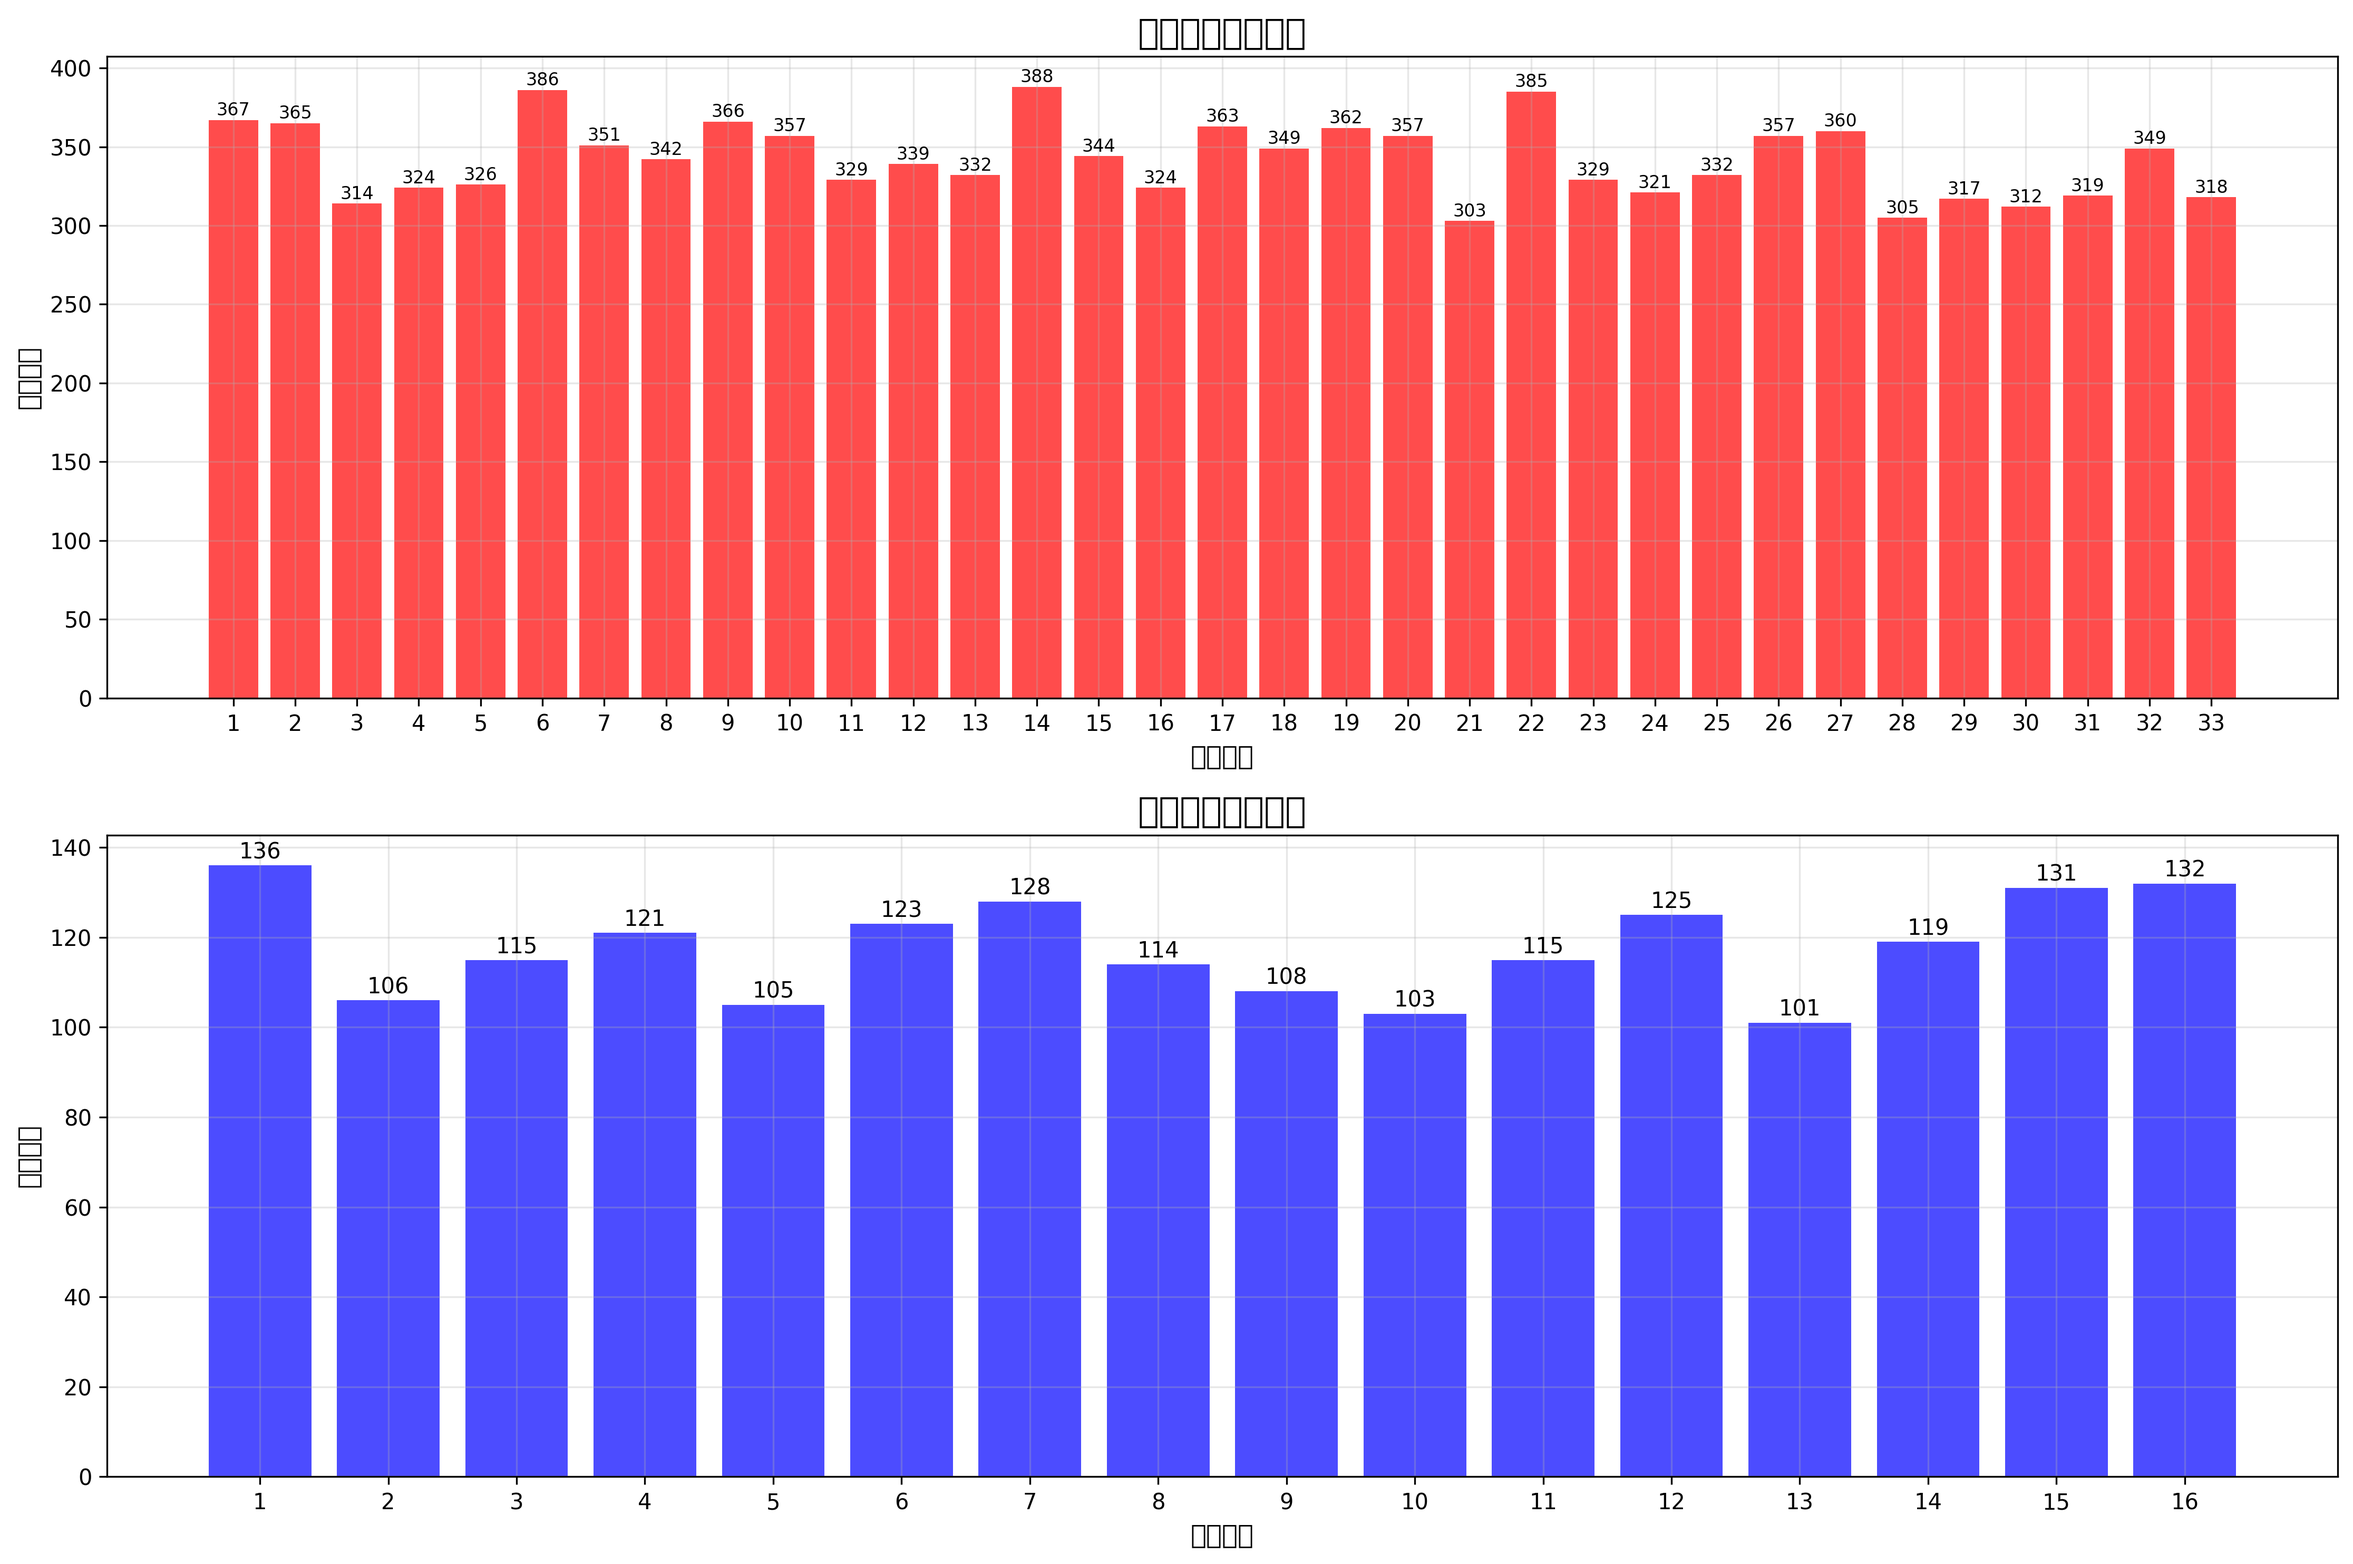
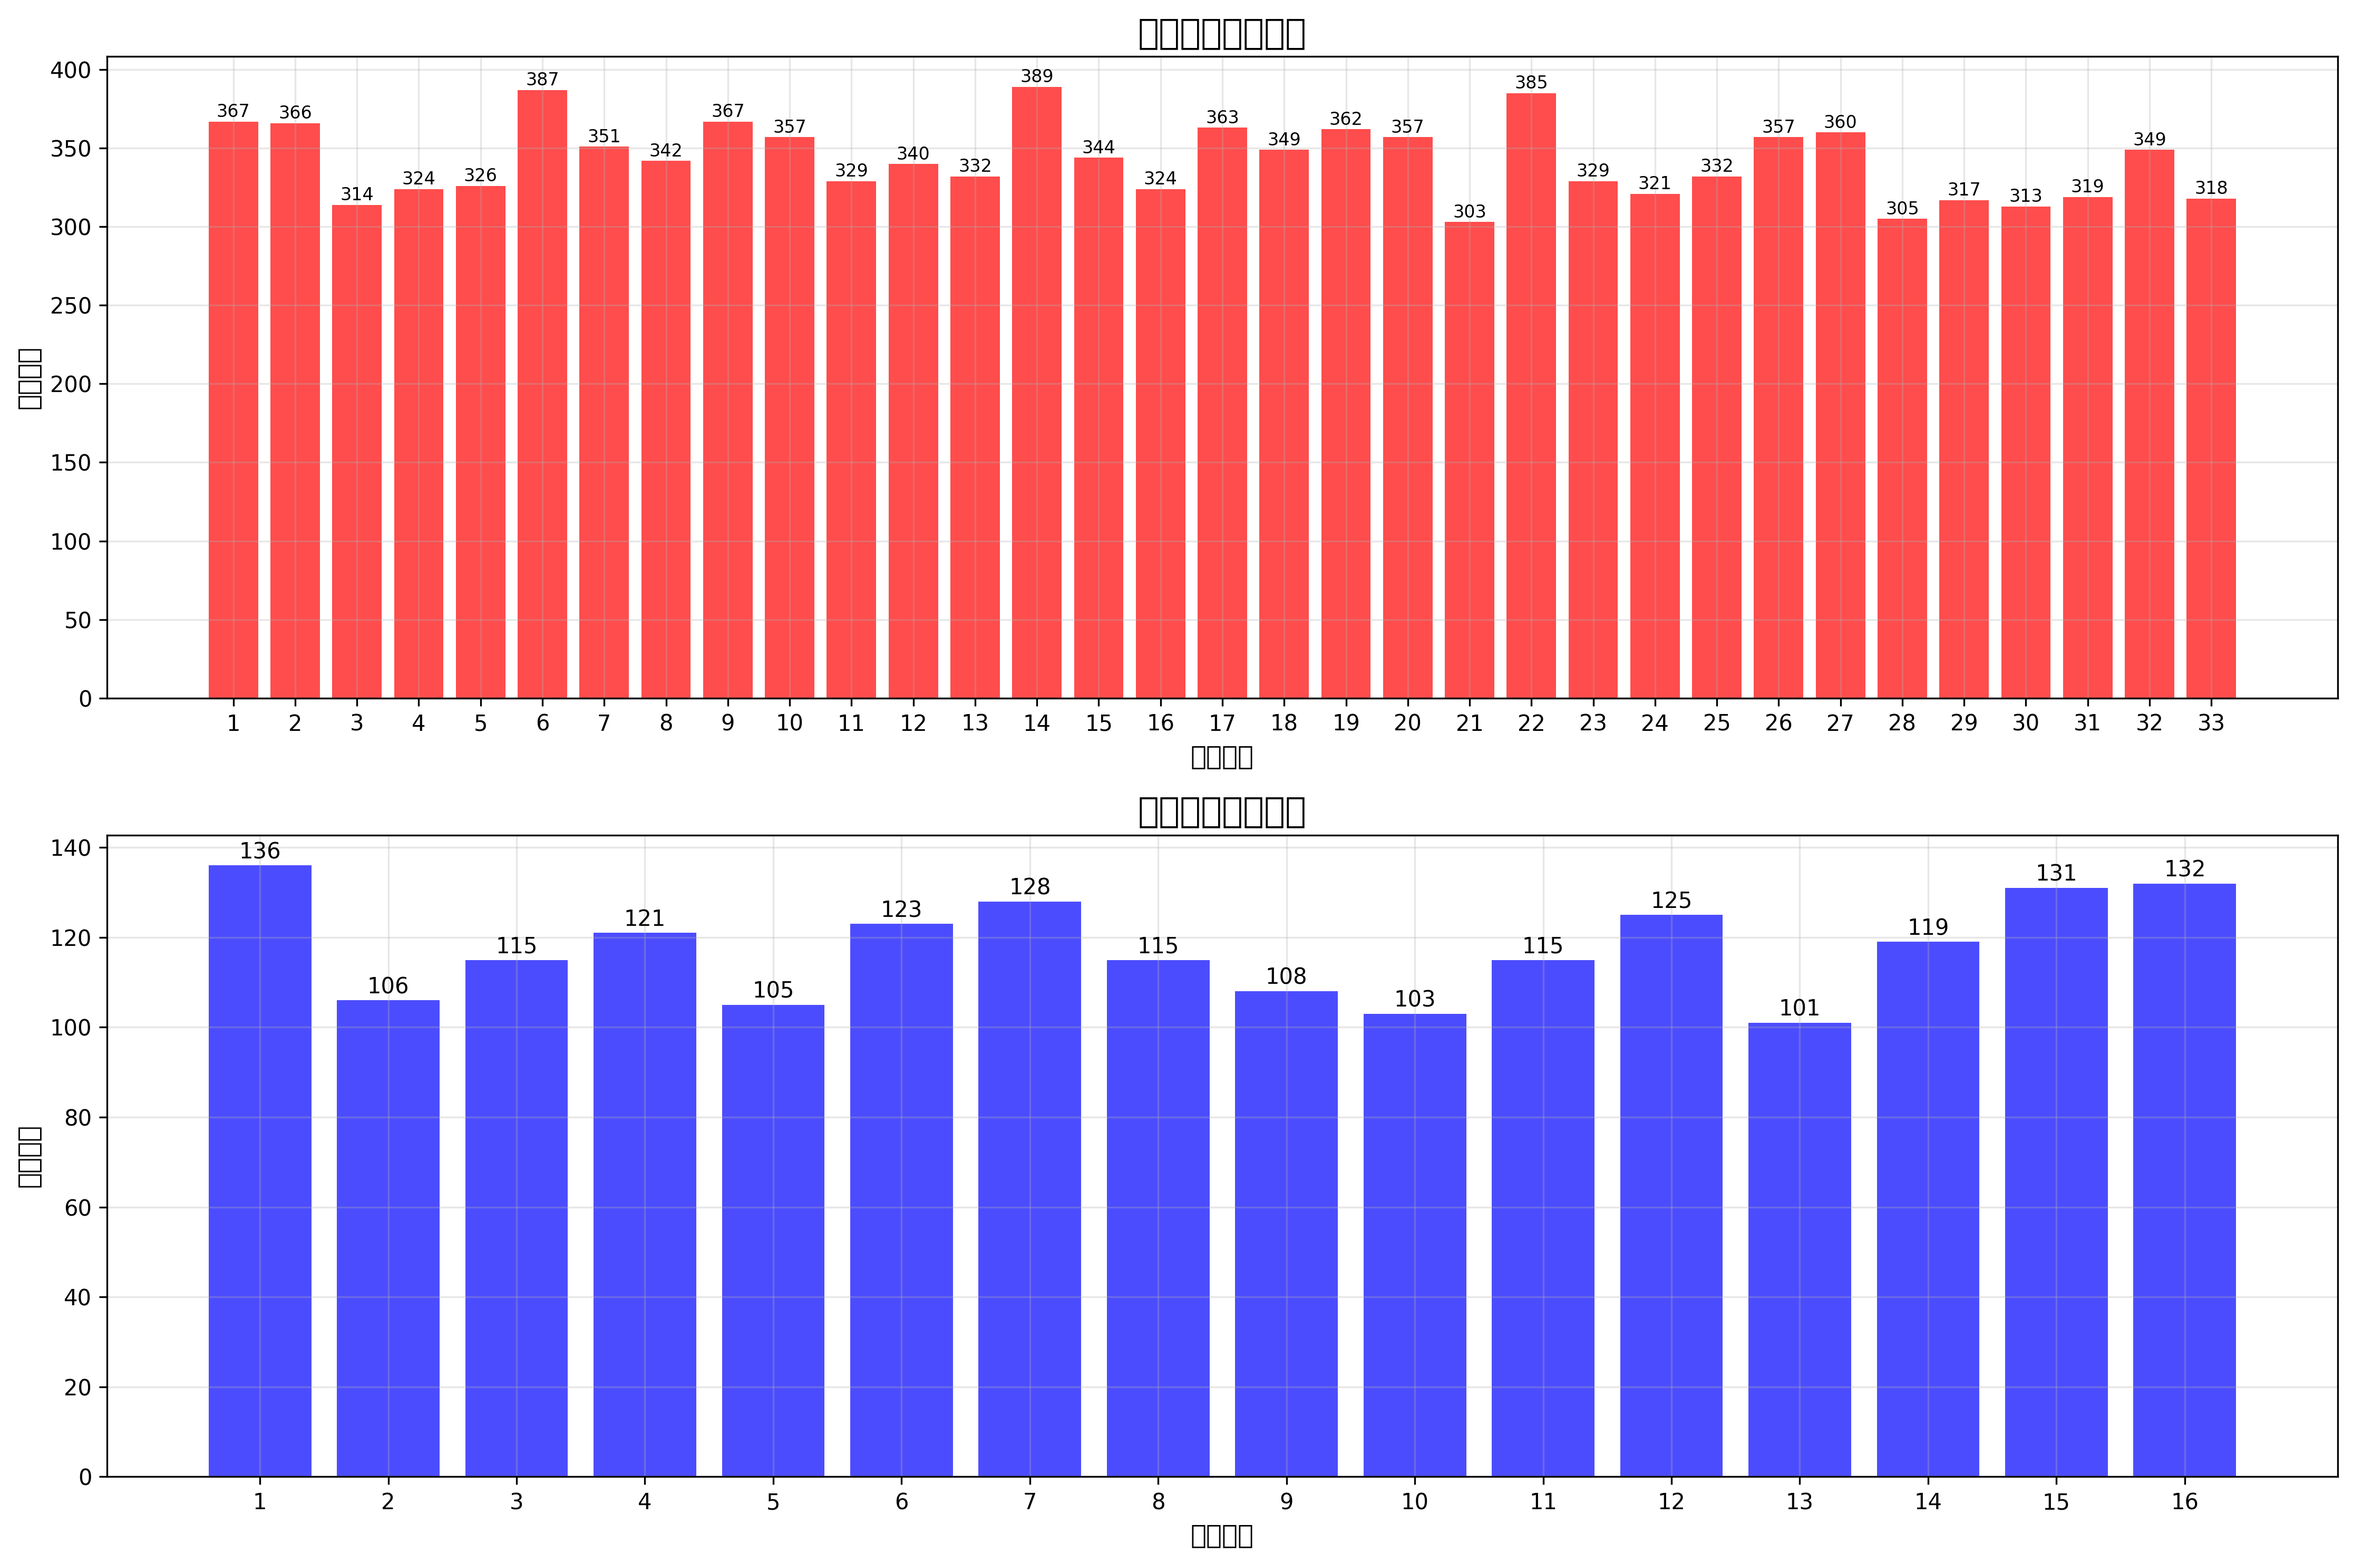
🎯 更新彩票数据和分析报告 - 2025-07-06 21:53:25 (UTC+8)

Changed region(s): [[0.4671, 0.5889, 0.4982, 0.6199]]

diff --git a/reports/analysis_report.md b/reports/analysis_report.md
@@ -1,9 +1,9 @@
 # 🎯 双色球数据分析报告
 
 ## 📊 报告信息
-- **生成时间**: 2025年07月05日 21:53:26 (UTC+8)
-- **数据期数**: 共 1882 期
-- **最新期号**: 2025075
+- **生成时间**: 2025年07月06日 21:53:25 (UTC+8)
+- **数据期数**: 共 1883 期
+- **最新期号**: 2025076
 - **数据来源**: 中国福利彩票官方API
 
 ## ⚠ 重要免责声明
@@ -15,6 +15,8 @@
 
 ### 最近5期开奖号码
 
+**2025076期** (2025-07-06): 02 06 09 12 14 30 + **08**
+
 **2025075期** (2025-07-03): 10 12 14 19 20 21 + **15**
 
 **2025074期** (2025-07-01): 03 04 12 20 32 33 + **13**
@@ -22,8 +24,6 @@
 **2025073期** (2025-06-29): 02 07 10 27 30 33 + **11**
 
 **2025072期** (2025-06-26): 02 14 17 25 27 29 + **05**
-
-**2025071期** (2025-06-24): 01 12 18 23 25 28 + **07**
 
 ---
 
@@ -33,19 +33,19 @@
 
 | 排名 | 号码 | 出现次数 | 出现频率 |
 |------|------|----------|----------|
-| 01 | **14** | 388 | 20.6% |
-| 02 | **06** | 386 | 20.5% |
-| 03 | **22** | 385 | 20.5% |
-| 04 | **01** | 367 | 19.5% |
-| 05 | **09** | 366 | 19.4% |
-| 06 | **02** | 365 | 19.4% |
+| 01 | **14** | 389 | 20.7% |
+| 02 | **06** | 387 | 20.6% |
+| 03 | **22** | 385 | 20.4% |
+| 04 | **09** | 367 | 19.5% |
+| 05 | **01** | 367 | 19.5% |
+| 06 | **02** | 366 | 19.4% |
 | 07 | **17** | 363 | 19.3% |
 | 08 | **19** | 362 | 19.2% |
 | 09 | **27** | 360 | 19.1% |
 | 10 | **10** | 357 | 19.0% |
 | 11 | **20** | 357 | 19.0% |
 | 12 | **26** | 357 | 19.0% |
-| 13 | **07** | 351 | 18.7% |
+| 13 | **07** | 351 | 18.6% |
 | 14 | **32** | 349 | 18.5% |
 | 15 | **18** | 349 | 18.5% |
 
@@ -61,8 +61,8 @@
 | 06 | **06** | 123 | 6.5% |
 | 07 | **04** | 121 | 6.4% |
 | 08 | **14** | 119 | 6.3% |
-| 09 | **11** | 115 | 6.1% |
-| 10 | **03** | 115 | 6.1% |
+| 09 | **08** | 115 | 6.1% |
+| 10 | **11** | 115 | 6.1% |
 
 ---
 
@@ -76,7 +76,7 @@
 | 4奇2偶 | 470 | 25.0% |
 | 2奇4偶 | 450 | 23.9% |
 | 5奇1偶 | 143 | 7.6% |
-| 1奇5偶 | 113 | 6.0% |
+| 1奇5偶 | 114 | 6.1% |
 | 6奇0偶 | 21 | 1.1% |
 | 0奇6偶 | 19 | 1.0% |
 
@@ -90,7 +90,7 @@
 | 40-49 | 10 | 0.5% |
 | 50-59 | 37 | 2.0% |
 | 60-69 | 82 | 4.4% |
-| 70-79 | 163 | 8.7% |
+| 70-79 | 164 | 8.7% |
 | 80-89 | 263 | 14.0% |
 | 90-99 | 329 | 17.5% |
 | 100-109 | 347 | 18.4% |
@@ -111,7 +111,7 @@
 | 10-14 | 71 | 3.8% |
 | 15-19 | 265 | 14.1% |
 | 20-24 | 565 | 30.0% |
-| 25-29 | 711 | 37.8% |
+| 25-29 | 712 | 37.8% |
 | 30-34 | 266 | 14.1% |
 
 
@@ -123,6 +123,7 @@
 
 | 期号 | 开奖日期 | 红球号码 | 蓝球 |
 |------|----------|----------|------|
+| 2025076 | 2025-07-06 | 02 06 09 12 14 30 | **08** |
 | 2025075 | 2025-07-03 | 10 12 14 19 20 21 | **15** |
 | 2025074 | 2025-07-01 | 03 04 12 20 32 33 | **13** |
 | 2025073 | 2025-06-29 | 02 07 10 27 30 33 | **11** |
@@ -132,12 +133,11 @@
 | 2025069 | 2025-06-19 | 02 04 19 23 27 30 | **05** |
 | 2025068 | 2025-06-17 | 05 07 08 19 20 31 | **07** |
 | 2025067 | 2025-06-15 | 01 05 10 17 20 22 | **05** |
-| 2025066 | 2025-06-12 | 06 22 24 27 28 30 | **04** |
 
 
 ### 热号分析
 
-**最近10期红球热号（出现2次及以上）**: 01 02 03 04 05 07 10 12 14 17 19 20 21 22 23 25 27 28 30 33
+**最近10期红球热号（出现2次及以上）**: 01 02 03 04 05 07 10 12 14 17 19 20 21 22 23 25 27 30 33
 
 **最近10期蓝球热号（出现2次及以上）**: 05 07
 
@@ -147,36 +147,36 @@
 
 **⚠ 以下推荐号码仅基于历史统计分析，不保证中奖，请理性参考！**
 
-**推荐组合 1** (高频主导): 14 17 18 19 27 32 + **01**
-- 特征: 3奇3偶 | 和值:127 | 跨度:18
+**推荐组合 1** (高频主导): 09 12 13 17 20 22 + **01**
+- 特征: 3奇3偶 | 和值:93 | 跨度:13
 - 说明: 基于最高频号码的稳定组合
 
-**推荐组合 2** (均衡分布): 05 07 15 17 19 27 + **16**
-- 特征: 6奇0偶 | 和值:90 | 跨度:22
+**推荐组合 2** (均衡分布): 01 06 09 11 24 25 + **16**
+- 特征: 4奇2偶 | 和值:76 | 跨度:24
 - 说明: 高中低频均衡的平衡组合
 
-**推荐组合 3** (中频优先): 03 11 17 18 20 23 + **15**
-- 特征: 4奇2偶 | 和值:92 | 跨度:20
+**推荐组合 3** (中频优先): 01 02 15 23 25 33 + **15**
+- 特征: 5奇1偶 | 和值:99 | 跨度:32
 - 说明: 中频主导的稳健组合
 
-**推荐组合 4** (冷热结合): 06 17 20 30 31 32 + **07**
-- 特征: 2奇4偶 | 和值:136 | 跨度:26
+**推荐组合 4** (冷热结合): 02 04 09 13 17 29 + **07**
+- 特征: 4奇2偶 | 和值:74 | 跨度:27
 - 说明: 热号与冷号结合的对冲组合
 
-**推荐组合 5** (超高频): 01 06 10 19 20 32 + **01**
-- 特征: 2奇4偶 | 和值:88 | 跨度:31
+**推荐组合 5** (超高频): 01 02 17 22 27 32 + **01**
+- 特征: 3奇3偶 | 和值:101 | 跨度:31
 - 说明: 超高频号码的激进组合
 
-**推荐组合 6** (低频反选): 07 13 20 24 29 33 + **12**
-- 特征: 4奇2偶 | 和值:126 | 跨度:26
+**推荐组合 6** (低频反选): 03 09 15 18 21 30 + **12**
+- 特征: 4奇2偶 | 和值:96 | 跨度:27
 - 说明: 低频号码的反向思维组合
 
-**推荐组合 7** (随机均衡): 09 11 19 21 32 33 + **15**
-- 特征: 5奇1偶 | 和值:125 | 跨度:24
+**推荐组合 7** (随机均衡): 07 16 17 27 29 32 + **15**
+- 特征: 4奇2偶 | 和值:128 | 跨度:25
 - 说明: 各频段随机均衡组合
 
-**推荐组合 8** (奇偶优化): 01 08 09 17 18 30 + **16**
-- 特征: 3奇3偶 | 和值:83 | 跨度:29
+**推荐组合 8** (奇偶优化): 09 12 16 17 27 32 + **16**
+- 特征: 3奇3偶 | 和值:113 | 跨度:23
 - 说明: 考虑奇偶平衡的优化组合
 
 ---
@@ -222,6 +222,6 @@
 
 ---
 
-*报告生成时间: 2025年07月05日 21:53:26 (UTC+8)*  
+*报告生成时间: 2025年07月06日 21:53:25 (UTC+8)*  
 *数据来源: 中国福利彩票官方网站*  
 *仅供学习研究使用，请理性购彩*

diff --git a/README.md b/README.md
@@ -35,9 +35,9 @@
 
 | 期号 | 开奖日期 | 红球号码 | 蓝球 |
 |------|----------|----------|------|
-| 2025075 | 2025-07-03 | `10 12 14 19 20 21` | `15` |
+| 2025076 | 2025-07-06 | `02 06 09 12 14 30` | `08` |
 
-**📈 数据统计**: 已收录 1882 期开奖数据 | 最后更新: 2025年07月05日 21:53:06
+**📈 数据统计**: 已收录 1883 期开奖数据 | 最后更新: 2025年07月06日 21:53:09
 
 ---
 ### 🎯 智能推荐号码
@@ -46,14 +46,14 @@
 
 | 序号 | 推荐类型 | 红球号码 | 蓝球 | 特征分析 |
 |------|----------|----------|------|----------|
-| 1 | 高频主导 | `14 17 18 19 27 32` | `01` | 基于最高频号码的稳定组合<br/>3奇3偶 \| 和值:127 \| 跨度:18 |
-| 2 | 均衡分布 | `05 07 15 17 19 27` | `16` | 高中低频均衡的平衡组合<br/>6奇0偶 \| 和值:90 \| 跨度:22 |
-| 3 | 中频优先 | `03 11 17 18 20 23` | `15` | 中频主导的稳健组合<br/>4奇2偶 \| 和值:92 \| 跨度:20 |
-| 4 | 冷热结合 | `06 17 20 30 31 32` | `07` | 热号与冷号结合的对冲组合<br/>2奇4偶 \| 和值:136 \| 跨度:26 |
-| 5 | 超高频 | `01 06 10 19 20 32` | `01` | 超高频号码的激进组合<br/>2奇4偶 \| 和值:88 \| 跨度:31 |
+| 1 | 高频主导 | `09 12 13 17 20 22` | `01` | 基于最高频号码的稳定组合<br/>3奇3偶 \| 和值:93 \| 跨度:13 |
+| 2 | 均衡分布 | `01 06 09 11 24 25` | `16` | 高中低频均衡的平衡组合<br/>4奇2偶 \| 和值:76 \| 跨度:24 |
+| 3 | 中频优先 | `01 02 15 23 25 33` | `15` | 中频主导的稳健组合<br/>5奇1偶 \| 和值:99 \| 跨度:32 |
+| 4 | 冷热结合 | `02 04 09 13 17 29` | `07` | 热号与冷号结合的对冲组合<br/>4奇2偶 \| 和值:74 \| 跨度:27 |
+| 5 | 超高频 | `01 02 17 22 27 32` | `01` | 超高频号码的激进组合<br/>3奇3偶 \| 和值:101 \| 跨度:31 |
 
 **🎲 温馨提示**:
-- 📊 推荐基于 1882 期历史数据统计分析
+- 📊 推荐基于 1883 期历史数据统计分析
 - 🎯 采用多种策略组合，提高号码覆盖面
 - ⚠ 彩票具有随机性，请理性购彩，适度娱乐
 <!-- RECOMMENDATIONS_END -->
